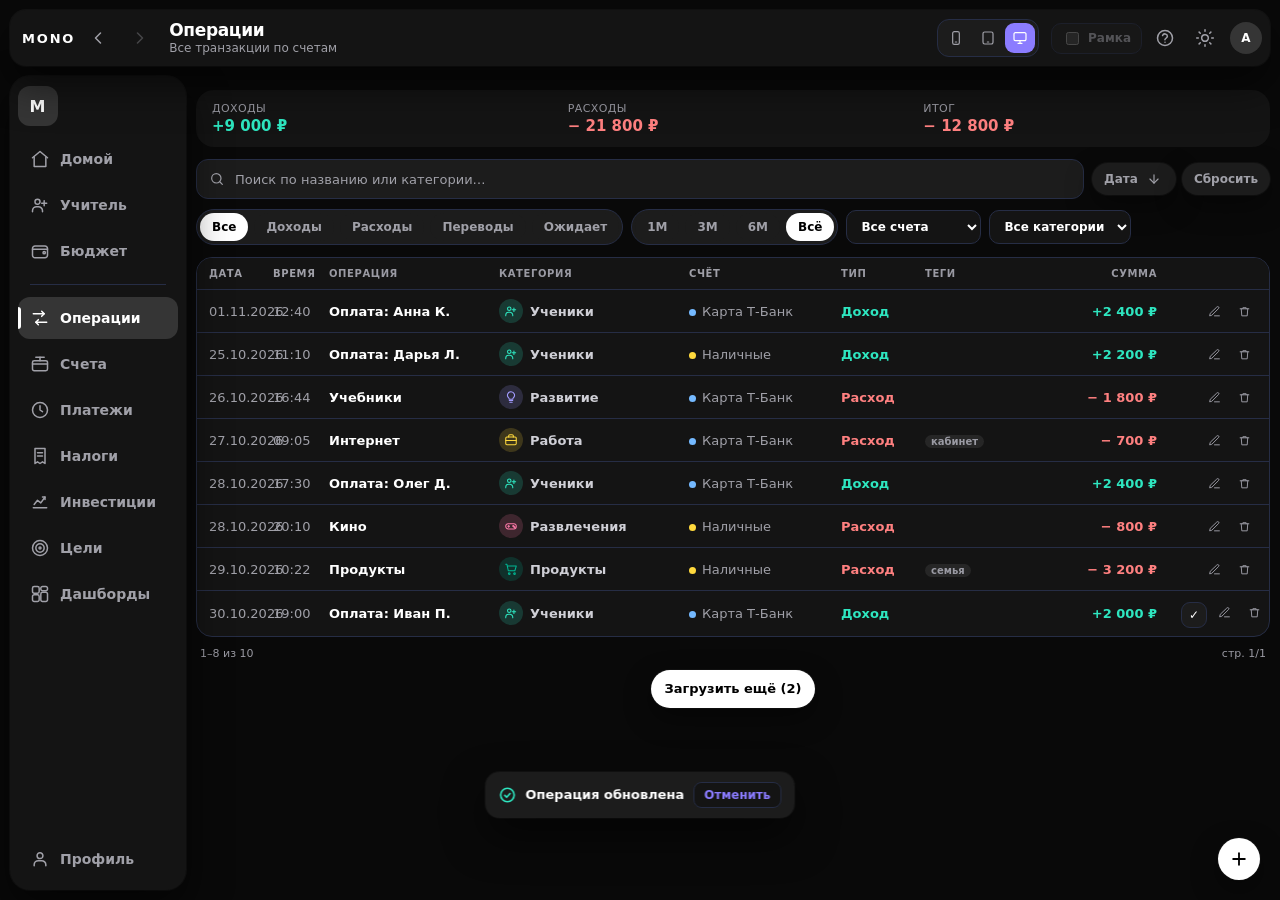
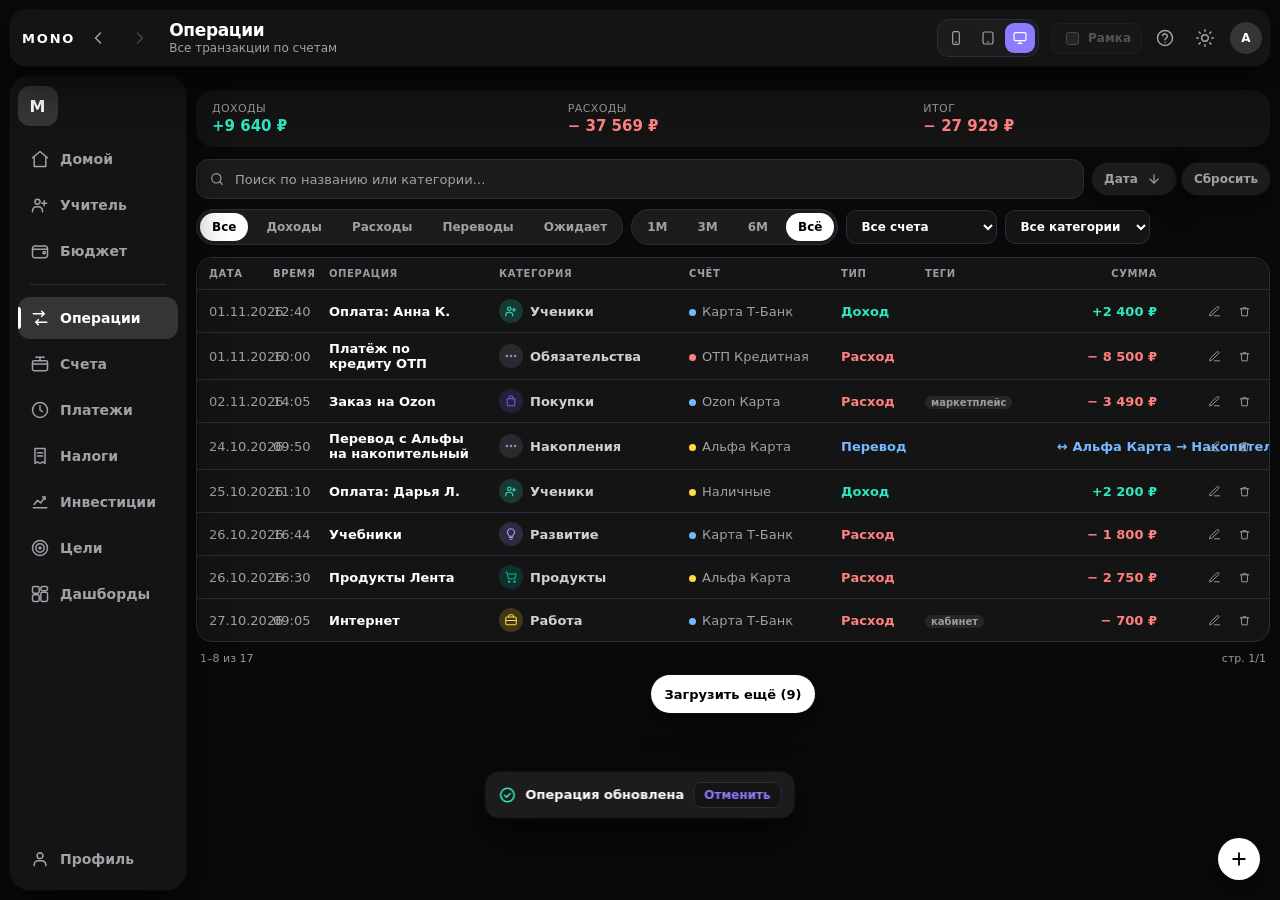
etap31: фикс parseDM/getTime+fmtDM(String) TypeErrors, toDate-хелпер, smoke 11->18, документация этапа 31

diff --git a/src/js/views/finance.js b/src/js/views/finance.js
@@ -480,7 +480,7 @@ window.Views = window.Views || {};
      поэтому сортировка стабильная: существующий порядок сохраняется внутри
      одинаковых дат. */
   function recentTxHTML(db, acc, limit = 4) {
-    const parseDate = (d) => { const p = window.u && u.parseDM ? u.parseDM(String(d)) : null; return p ? p.getTime() : 0; };
+    const parseDate = (d) => { const p = window.u && u.toDate ? u.toDate(String(d)) : null; return p ? p.getTime() : 0; };
     const txs = db.transactions
       .filter((t) => t.account === acc.name || (t.type === "transfer" && t.toAccount === acc.name))
       .map((t, i) => ({ t, i }))
@@ -493,7 +493,9 @@ window.Views = window.Views || {};
       const incoming = t.type === "income" || (isTransfer && t.toAccount === acc.name && t.account !== acc.name);
       const sumCls = isTransfer ? "transfer" : (incoming ? "income" : "expense");
       const sign = isTransfer ? "↔ " : (incoming ? "+ " : "− ");
-      const meta = [u.fmtDM(String(t.date)), t.category].filter(Boolean).join(" · ");
+      /* Этап 31: fmtDM ждёт Date — дата уже каноническая «DD.MM.YYYY»,
+         String() сюда вызывал d.getDate на строке (TypeError). */
+      const meta = [t.date, t.category].filter(Boolean).join(" · ");
       return `<button type="button" class="recent-row" data-go-route="accounts" data-go-params="account:${esc(acc.id)}">
         <span class="recent-main">
           <span class="recent-title">${esc(t.title)}</span>

diff --git a/src/js/core.js b/src/js/core.js
@@ -117,6 +117,14 @@
     return { y: n.getFullYear() - (fresh ? 0 : 1), m: mm, d: dd };
   }
 
+  /* «DD.MM[.YYYY]» → Date (для getTime/сравнений). Обёртка над parseDM:
+     возвращает null для нераспознанных строк. */
+  function toDate(d, now) {
+    const p = parseDM(d, now);
+    if (!p) return null;
+    return new Date(p.y, p.m - 1, p.d);
+  }
+
   /* Date → каноническое «DD.MM.YYYY» (Этап 28-fix: единый формат дат) */
   function fmtDM(d) {
     return `${String(d.getDate()).padStart(2, "0")}.${String(d.getMonth() + 1).padStart(2, "0")}.${d.getFullYear()}`;
@@ -298,7 +306,7 @@
 
   window.u = {
     ic, money, pct, fillIcons, esc, chartColor, donutSVG, legendHTML, ringSVG, trendBars, catMeta,
-    parseDM, fmtDM, dateToISO, isoToDM,
+    parseDM, toDate, fmtDM, dateToISO, isoToDM,
     moneyFormatter, txDelta, recalcBalances
   };
 })();

diff --git a/docs/smoke.py b/docs/smoke.py
@@ -46,7 +46,7 @@ with sync_playwright() as p:
     assert pg.input_value("#gf-title") == "Тест оплата", "edit not prefilled"
     pg.fill("#gf-title", "Тест оплата ред."); pg.fill("#gf-amount", "1500")
     pg.click("#genericForm button[type=submit]"); pg.wait_for_timeout(400)
-    assert pg.evaluate("window.DB.transactions.length") == 11, "edit created new tx"
+    assert pg.evaluate("window.DB.transactions.length") == 18, "edit created new tx"
     assert "Тест оплата ред." in pg.inner_text("#page-body"), "edit not visible"
     before_del = pg.evaluate("window.DB.transactions.length")
     pg.click(f"[data-action='tx-del'][data-id='{first_id}']"); pg.wait_for_timeout(300)

diff --git a/docs/READMY_DEV.md b/docs/READMY_DEV.md
@@ -654,3 +654,23 @@ CI `Run smoke` падал с exit code 1. Причина была не в пун
 - Playwright-проверки карусели: swipe→точка 1→2, клик по точке→scrollLeft 0,
   Enter на карте → #/accounts/account/1 («Детали счёта»), стрелки видны и скроллят
   только на широком контейнере.
+
+## Этап 31 — Доработка дизайна карусели карт (2026-11-03)
+
+### Запросы пользователя и реализация
+- Компактные карточки на десктопе (были «очень большие») — ограничены по ширине/высоте в layout-base.css.
+- Стрелки переключения приведены к единому стилю «назад/вперёд» (шевроны как в остальном UI).
+- Добавлена кнопка создания счёта («Добавить счёт»).
+- Под каруселью — панель последних операций активной карты (recentTxHTML, finance.js).
+- Кнопка «Перевод» — форма перевода между счетами (тип transfer, поле «Счёт-приёмник»).
+- Матовый, менее «реалистичный» дизайн карт; новые бренды: Ozon, Яндекс Пэй, ОТП, Альфа (BANK_META + mock-счета/операции id 11–17).
+- Бейджи дебетовая/кредитная карта на карточках.
+- SW cache bumped до mono-shell-v6.
+
+### Исправленные баги этой сессии
+- `u.parseDM(...)` возвращает `{y,m,d}`; вызов `.getTime()` в recentTxHTML → TypeError. Добавлен хелпер `u.toDate(str)` (core.js), recentTxHTML переведён на него.
+- `u.fmtDM(String(t.date))` в recentTxHTML вызывал `d.getDate is not a function` на строке (падал smoke из-за pageerror ×3). Дата уже каноническая «DD.MM.YYYY» — fmtDM убран из этого места.
+- docs/smoke.py: хардкод `transactions.length == 11` устарел (mock вырос до 17 операций) → обновлён до 18 после добавления тестовой операции.
+
+### Проверка
+- smoke.py — SMOKE OK; undotest.py — UNDO TEST OK; global-audit.py — AUDIT OK; balancetest.py — IDEMPOTENT CLEAN / TRANSFER NEUTRAL / RESET DEEP COPY — все зелёные, CONSOLE ERRORS: none.
